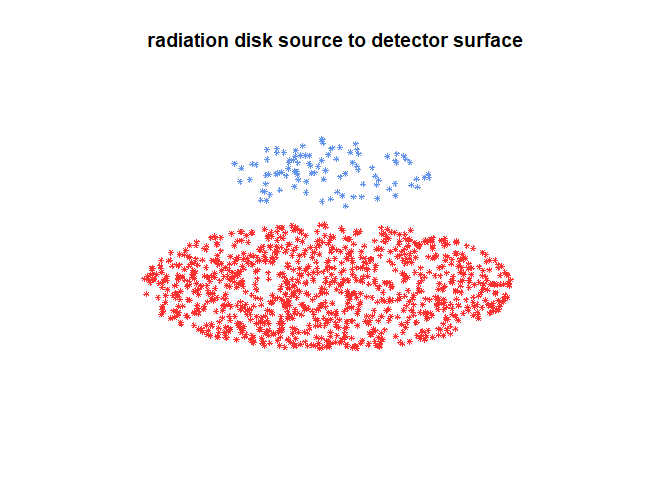
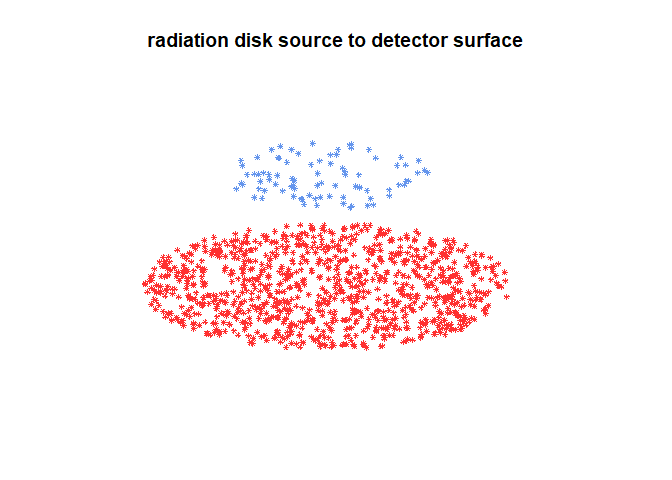
remove quotes from badge

Changed region(s): [[0.1875, 0.4688, 0.7812, 0.75], [0.3438, 0.2812, 0.6562, 0.4375]]

diff --git a/README.md b/README.md
@@ -3,8 +3,8 @@
 
 # radsafer <img src='man/figures/radsafer.png' align="right" height="139" />
 
-“[![CRAN RStudio mirror
-downloads](https://cranlogs.r-pkg.org/badges/last-month/radsafer?color=blue)](https://r-pkg.org/pkg/radsafer)”
+[![CRAN RStudio mirror
+downloads](https://cranlogs.r-pkg.org/badges/last-month/radsafer?color=blue)](https://r-pkg.org/pkg/radsafer)
 [![Build
 Status](https://travis-ci.org/markhogue/radsafer.svg?branch=master)](https://travis-ci.org/markhogue/radsafer)
 
@@ -124,7 +124,7 @@ is:
 
 ``` r
 (as_rel_solid_angle <- as.numeric(disk_to_disk_solid_angle(r.source = 45/2, gap = 20, r.detector = 12.5, runs = 1e4, plot.opt = "n")))
-#> [1] 0.048813593 0.002160732
+#> [1] 0.04797122 0.00213652
 ```
 
 An optional plot is available in 2D or
@@ -136,7 +136,7 @@ An optional plot is available in 2D or
 
 <img src="man/figures/README-unnamed-chunk-9-1.png" width="50%" />
 
-    #> [1] 0.049789410 0.002178257
+    #> [1] 0.047264923 0.002120248
 
 Continuing the example: the only calibration source you had available
 with the appropriate isotope has an active diameter of 20 mm. Is this a
@@ -146,16 +146,16 @@ two.
 
 ``` r
 (cal_rel_solid_angle <- disk_to_disk_solid_angle(r.source = 20, gap = 20, r.detector = 12.5, runs = 1e4, plot.opt = "n"))
-#>   mean_eff         SEM
-#>  0.0530529 0.002235252
+#>    mean_eff         SEM
+#>  0.05335335 0.002248608
 ```
 
 Correct for the mismatch:
 
 ``` r
 (cf <- cal_rel_solid_angle / as_rel_solid_angle)
-#>  mean_eff      SEM
-#>  1.065546 1.026165
+#>  mean_eff     SEM
+#>  1.128815 1.06054
 ```
 
 This makes sense - the air sample has particles originating outside the
